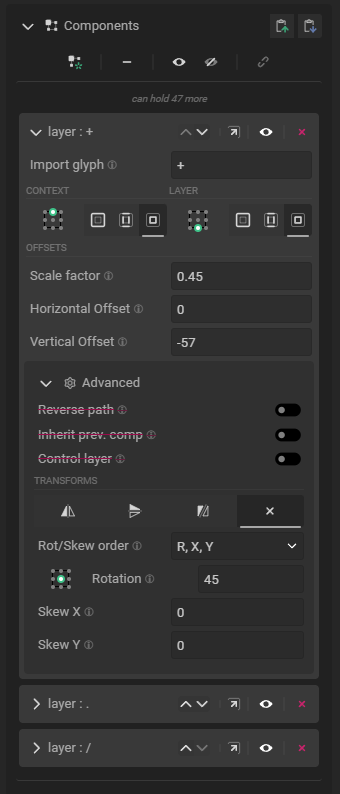
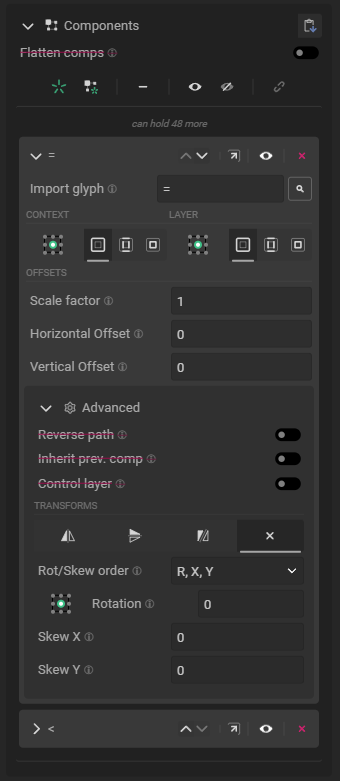
Bugfixes

diff --git a/app/js/widgets/layers-view.js b/app/js/widgets/layers-view.js
@@ -28,6 +28,8 @@ class LayersView extends base {
         super._Init();
         ui.helpers.HostSelStack(this, false, false);
 
+        this._Bind(this._OpenPicker)
+
         this._builder.defaultControlClass = PropertyControl;
         this._builder.defaultCSS = `control`;
 
@@ -121,10 +123,15 @@ class LayersView extends base {
             defaultWidgetClass: nkm.uilib.buttons.Tool,
             handles: [
                 {
-                    icon: `component-new`, htitle: `Create new component`,
+                    icon: `new`, htitle: `Create new component`,
                     flavor: nkm.ui.FLAGS.CTA, variant: ui.FLAGS.MINIMAL,
                     trigger: { fn: () => { this.editor.cmdLayerAdd.Execute(this._data); } },
                     group: `create`, member: { owner: this, id: `_createBtn` }
+                },
+                {
+                    icon: `component-new`, htitle: `Search & create components`,
+                    trigger: { fn: this._OpenPicker },
+                    group: `create`, variant: ui.FLAGS.MINIMAL,
                 },
                 {
                     icon: `minus`, htitle: `Collapse all`,
@@ -149,11 +156,6 @@ class LayersView extends base {
                     variant: ui.FLAGS.MINIMAL,
                     trigger: { fn: () => { this.editor.cmdLayerAddComp.Execute(this._data); } },
                     group: `automate`, member: { owner: this, id: `_addCompBtn` }
-                },
-                {
-                    icon: `search-small`, htitle: `Search & add components`,
-                    trigger: { fn: this._Bind(this._OpenPicker) },
-                    variant: ui.FLAGS.MINIMAL,
                 },
             ]
         };
@@ -301,7 +303,7 @@ class LayersView extends base {
             this._glyphPicker.content.allowMultiple = true;
             this._glyphPicker.content.selectionFn = null;
             this._glyphPicker.content.handles = [{
-                icon: `component-new`, label: `Add selected`, htitle: `Crate components from selection`,
+                icon: `new`, label: `Add selected`, htitle: `Crate components from selection`,
                 variant: ui.FLAGS.FRAME, flavor: ui.FLAGS.CTA,
                 trigger: {
                     fn: () => {
@@ -325,18 +327,9 @@ class LayersView extends base {
     }
 
     _CreateLayersFromSelection(p_selection) {
-
         let editor = this.editor;
-        editor.StartActionGroup({
-            icon: `component-new`,
-            name: `Composite`,
-            title: `Creates components from picker selection`
-        });
-
-        SHARED_OPS.AddLayersFromList(editor, this._data, p_selection);
-
-        editor.EndActionGroup();
-
+        editor.cmdLayersAddUInfos.unicodes = p_selection;
+        editor.cmdLayersAddUInfos.Execute(this._data);
     }
 
 

diff --git a/app/js/operations/commands/cmd-layers-add-uinfos.js b/app/js/operations/commands/cmd-layers-add-uinfos.js
@@ -1,0 +1,67 @@
+'use strict';
+
+const nkm = require(`@nkmjs/core`);
+const actions = nkm.actions;
+const u = nkm.u;
+
+const { clipboard } = require('electron');
+const fs = require('fs');
+
+const UNICODE = require(`../../unicode`);
+const mkfData = require(`../../data`);
+const mkfActions = require(`../actions`);
+
+class CmdLayersAddUInfos extends actions.Command {
+    constructor() { super(); }
+
+    _Init() {
+        super._Init();
+        this._unicodes = null;
+    }
+
+    set unicodes(p_value) { this._unicodes = p_value; }
+
+    _InternalExecute() {
+
+        if (!this._unicodes || this._unicodes.length == 0) { return this._Cancel(); }
+
+        this._emitter.StartActionGroup({
+            icon: `component-new`,
+            name: `Composite`,
+            title: `Creates components from picker selection`
+        });
+
+        if (u.isArray(this._context)) {
+
+            this._context.forEach(variant => {
+                this._unicodes.forEach(infos => {
+                    if (variant.availSlots <= 0) { return; }
+                    this._emitter.Do(mkfActions.LayerAdd, {
+                        target: variant,
+                        layerValues: { [mkfData.IDS.LYR_CHARACTER_NAME]: infos.char },
+                        expanded: false
+                    });
+                });
+            });
+
+        } else {
+
+            let variant = this._context;
+            this._unicodes.forEach(infos => {
+                if (variant.availSlots <= 0) { return; }
+                this._emitter.Do(mkfActions.LayerAdd, {
+                    target: variant,
+                    layerValues: { [mkfData.IDS.LYR_CHARACTER_NAME]: infos.char },
+                    expanded: false
+                });
+            });
+        }
+
+        this._emitter.EndActionGroup();
+        this._Success();
+
+    }
+
+}
+
+module.exports = CmdLayersAddUInfos;

diff --git a/app/js/widgets/tr-layer-inspector.js b/app/js/widgets/tr-layer-inspector.js
@@ -20,10 +20,11 @@ class LayerTransformSettingsInspector extends base {
     constructor() { super(); }
 
     static __controls = [
+        
         { options: { propertyId: mkfData.IDS.LYR_CHARACTER_NAME }, css: 'small' },
         {
             cl: nkm.uilib.buttons.Tool, options: {
-                icon: `search-small`, htitle: `Glyph picker`, variant: ui.FLAGS.MINIMAL, size: ui.FLAGS.SIZE_S,
+                icon: `search-small`, htitle: `Glyph picker`, variant: ui.FLAGS.FRAME, size: ui.FLAGS.SIZE_S,
                 trigger: {
                     fn: (p_self) => {
                         let layerView = ui.FindFirstParent(p_self, `mkf-layer-view`) || ui.FindFirstParent(p_self, `mkf-layer-view-silent`);
@@ -33,7 +34,7 @@ class LayerTransformSettingsInspector extends base {
                 }
             }, css: 'btn'
         },
-
+        
         { cl: ControlHeader, options: { label: `Context`, label2: `Layer` }, css: 'hdr' },
         { options: { propertyId: mkfData.IDS.TR_ANCHOR, inputOnly: true }, css: 'vsmall' },
         { options: { propertyId: mkfData.IDS.TR_LYR_BOUNDS_MODE, inputOnly: true }, css: 'small' },

diff --git a/app/js/editors/inspectors/glyph-list-inspector.js b/app/js/editors/inspectors/glyph-list-inspector.js
@@ -164,10 +164,15 @@ class GlyphListInspector extends base {
 
         this._layersView._toolbar.CreateHandles(
             {
-                icon: `component-new`, htitle: `Create new component`,
+                icon: `new`, htitle: `Create new component`,
                 flavor: nkm.ui.FLAGS.CTA, variant: ui.FLAGS.MINIMAL,
                 trigger: { fn: () => { this.editor.cmdLayerAdd.Execute(this._data.analytics.existing); } },
                 group: `create`
+            },
+            {
+                icon: `component-new`, htitle: `Search & create components`,
+                trigger: { fn: this._layersView._OpenPicker },
+                group: `create`, variant: ui.FLAGS.MINIMAL,
             },
             {
                 icon: `minus`, htitle: `Collapse all`,

diff --git a/app/js/editors/editor-font.js b/app/js/editors/editor-font.js
@@ -87,6 +87,7 @@ class FontEditor extends base {
         this.cmdGlyphPasteTransform = this._commands.Create(mkfCmds.GlyphPasteTransform, { shortcut: this.shortcuts.Create("Ctrl Alt V").Strict() });
 
         this.cmdLayerAdd = this._commands.Create(mkfCmds.LayerAdd);
+        this.cmdLayersAddUInfos = this._commands.Create(mkfCmds.LayersAddUInfos);
         this.cmdLayerRemove = this._commands.Create(mkfCmds.LayerRemove);
         this.cmdLayerUp = this._commands.Create(mkfCmds.LayerUp);
         this.cmdLayerDown = this._commands.Create(mkfCmds.LayerDown);

diff --git a/app/js/widgets/layers-view-silent.js b/app/js/widgets/layers-view-silent.js
@@ -53,6 +53,16 @@ class LayersViewSilent extends base {
 
     }
 
+    _ChangeCurrentLayer(p_layer, p_selection) {
+        p_layer.Set(mkfData.IDS.LYR_CHARACTER_NAME, p_selection.char);
+    }
+
+    _CreateLayersFromSelection(p_selection) {
+        let editor = this.editor;
+        editor.cmdLayersAddUInfos.unicodes = p_selection;
+        editor.cmdLayersAddUInfos.Execute(editor.inspectedData.analytics.existing);
+    }
+
 
 }
 

diff --git a/app/js/operations/commands/index.js b/app/js/operations/commands/index.js
@@ -32,6 +32,7 @@ module.exports = {
     GlyphPasteTransform: require(`./cmd-glyph-paste-transform`),
 
     LayerAdd: require(`./cmd-layer-add`),
+    LayersAddUInfos: require(`./cmd-layers-add-uinfos`),
     LayerRemove: require(`./cmd-layer-remove`),
     LayerSetControlBatch: require(`./cmd-action-set-control-batch`),
     LayerAllOff: require(`./cmd-layers-all-off`),

diff --git a/app/js/editors/helpers/surveyor.js b/app/js/editors/helpers/surveyor.js
@@ -393,7 +393,7 @@ class Surveyor extends base {
 
         let layerList = p_layer.surveyedList;
 
-        if (layerList.length == 0) { return; }
+        if (!layerList || layerList.length == 0) { return; }
 
         if (p_id == mkfData.IDS.LYR_IS_CONTROL_LAYER) {
             this._editor.cmdLayerControl.toggle = p_valueObj.value;

diff --git a/pkg.cc b/pkg.cc
@@ -7,7 +7,7 @@
     },
     "license": "SEE LICENSE IN LICENSE",
     "dependencies": {
-        "@nkmjs/core": "^0.3.6",
+        "@nkmjs/core": "^0.3.7",
         "svg-path-reverse": "^1.3.0",
         "svg2ttf": "^6.0.3",
         "svgo": "^2.8.0",
@@ -19,7 +19,7 @@
         "processor": "node app/js-unicode/unicode-processor.js"
     },
     "devDependencies": {
-        "@nkmjs/core-dev": "^0.3.7",
+        "@nkmjs/core-dev": "^0.3.8",
         "electron": "^17.1.0"
     }
 }
